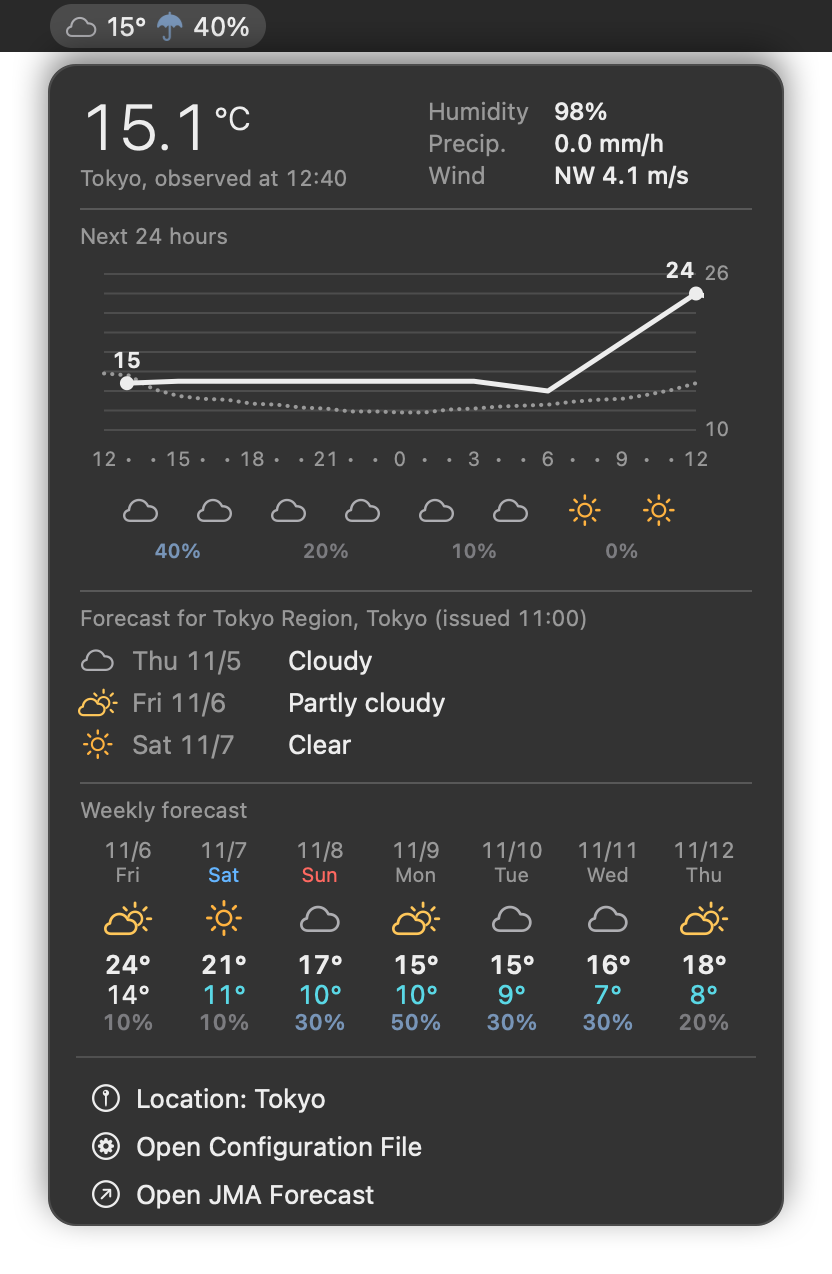
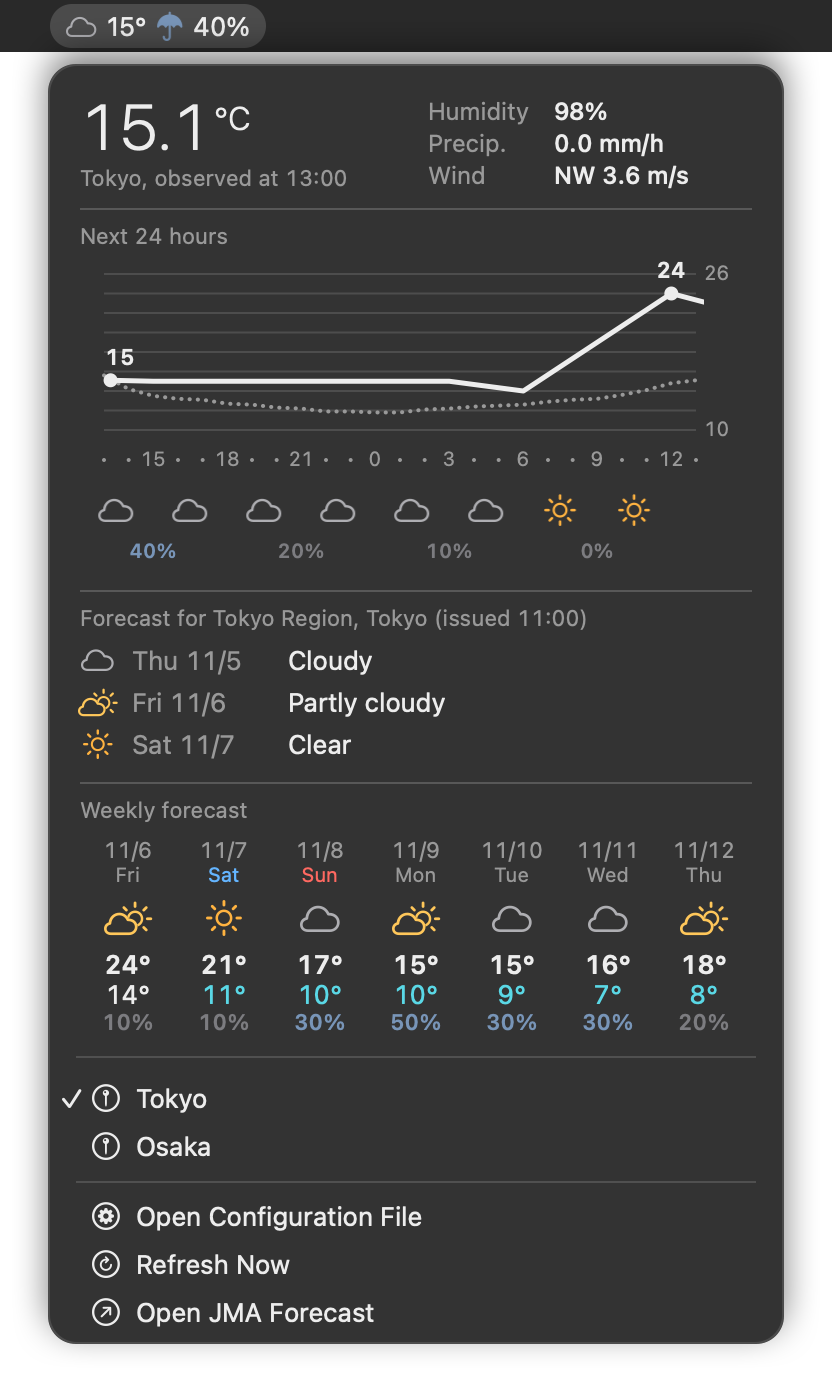
weather: 地点の切り替えをサブメニューから、チェック付きの項目の並びにする
SwiftBar 2.1.1 では、メニューを差し替えたときに、動作の無いサブメニューの親
(「地点: 山口」) が押せない状態のまま残り、地点を選べなかった。SwiftBar の
最新のソースには、この場合にサブメニューの動作を付け直す修正が入っている。
SwiftBar の版によらず使えるよう、地点を動作付きの項目として直接並べ、表示中の
地点にチェックを付ける。切り替えも 1 クリックで済む。

README の画像と説明、テストも合わせた。

diff --git a/samples/compose.swift b/samples/compose.swift
@@ -2,7 +2,8 @@
 //   swift samples/compose.swift <light|dark> <メニューバー> <カードの PNG> <出力の PNG> [項目 ...]
 // メニューバーは PNG のパスか、「text:」に続けて SwiftBar の行 (weather のように
 // :symbol: を埋め込んだ文字と sfcolor=明るい用,暗い用) を渡す。
-// 項目は「SF Symbols の名前:文字」の形で、カードの下に並べる。
+// 項目は「SF Symbols の名前:文字」の形で、カードの下に並べる。末尾に「:checked」を
+// 付けるとチェックマークを付ける。「-」だけの項目は区切り線にする。
 // 実物の見た目を写し取るものではなく、カードがどう使われるかを伝えるための絵。
 import AppKit
 
@@ -14,9 +15,12 @@ func load(_ path: String) -> (NSImage, CGSize) {
     return (img, CGSize(width: CGFloat(px.pixelsWide) / 2, height: CGFloat(px.pixelsHigh) / 2))
 }
 let (card, cardSize) = load(a[3])
-let items: [(String, String)] = a.dropFirst(5).map {
-    let p = $0.split(separator: ":", maxSplits: 1).map(String.init)
-    return (p[0], p[1])
+let items: [(symbol: String, label: String, checked: Bool)] = a.dropFirst(5).map {
+    if $0 == "-" { return ("-", "", false) }
+    var p = $0.split(separator: ":").map(String.init)
+    let checked = p.count > 2 && p.last == "checked"
+    if checked { p.removeLast() }
+    return (p[0], p.dropFirst().joined(separator: ":"), checked)
 }
 
 let fg = dark ? NSColor(white: 0.93, alpha: 1) : NSColor(white: 0.1, alpha: 1)
@@ -66,7 +70,8 @@ let rule = dark ? NSColor(white: 1, alpha: 0.14) : NSColor(white: 0, alpha: 0.1)
 
 let margin: CGFloat = 24, barH: CGFloat = 26, popPad: CGFloat = 14, rowH: CGFloat = 24
 let popW = cardSize.width + popPad * 2
-let itemsH = items.isEmpty ? 0 : 9 + rowH * CGFloat(items.count) + 4
+let sepH: CGFloat = 11
+let itemsH = items.isEmpty ? 0 : 9 + items.reduce(0) { $0 + ($1.symbol == "-" ? sepH : rowH) } + 4
 let popH = popPad + cardSize.height + 12 + itemsH
 let popX = margin, popY = barH + 6
 let width = popW + margin * 2
@@ -122,7 +127,22 @@ if !items.isEmpty {
     cg.setFillColor(rule.cgColor)
     cg.fill(CGRect(x: popX + popPad, y: y, width: cardSize.width, height: 1))
     y += 9
-    for (sym, label) in items {
+    for (sym, label, checked) in items {
+        if sym == "-" {
+            cg.setFillColor(rule.cgColor)
+            cg.fill(CGRect(x: popX + popPad, y: y + sepH / 2, width: cardSize.width, height: 1))
+            y += sepH
+            continue
+        }
+        if checked {
+            let ccfg = NSImage.SymbolConfiguration(pointSize: 11, weight: .semibold)
+                .applying(NSImage.SymbolConfiguration(paletteColors: [fg]))
+            if let img = NSImage(systemSymbolName: "checkmark", accessibilityDescription: nil)?.withSymbolConfiguration(ccfg) {
+                let s = img.size
+                img.draw(in: CGRect(x: popX + popPad - s.width / 2 - 2, y: y + (rowH - s.height) / 2, width: s.width, height: s.height),
+                         from: .zero, operation: .sourceOver, fraction: 1, respectFlipped: true, hints: nil)
+            }
+        }
         let cfg = NSImage.SymbolConfiguration(pointSize: 14, weight: .regular)
             .applying(NSImage.SymbolConfiguration(paletteColors: [fg]))
         if let img = NSImage(systemSymbolName: sym, accessibilityDescription: nil)?.withSymbolConfiguration(cfg) {

diff --git a/README.ja.md b/README.ja.md
@@ -64,7 +64,7 @@ place=横浜
 
 予報の区域は観測点から決まります。同じ地域の中で、予報の気温の代表の地点が観測点にいちばん近い区域を使います。メニューの「設定ファイルを開く」を選ぶと、ファイルが無ければ説明付きのひな形を作って開きます。
 
-観測点を複数書くと、メニューの「地点」から切り替えられます。選んだ地点は覚えておきます。
+観測点を複数書くと、メニューに並び、選んで切り替えられます。表示している地点にはチェックが付き、選んだ地点は覚えておきます。ファイルを書き換えたあとは、メニューの「今すぐ更新」で、次の更新 (10 分ごと) を待たずに反映できます。
 
 ```ini
 place=東京

diff --git a/README.md b/README.md
@@ -64,7 +64,7 @@ place=横浜
 
 The plugin finds the forecast area from the station: it uses the forecast area whose representative temperature point is nearest to the station, within the same region. The **Open Configuration File** item in the menu creates this file with comments if it does not exist.
 
-List more than one station to switch between them from the **Location** submenu. The plugin remembers the one you chose.
+List more than one station to switch between them: the menu lists them, with a check mark on the one shown. The plugin remembers the one you chose. After editing the file, choose **Refresh Now** to apply it without waiting for the next update (every 10 minutes).
 
 ```ini
 place=東京
